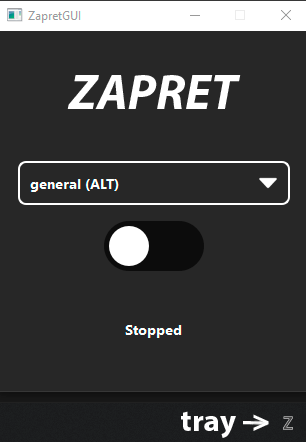
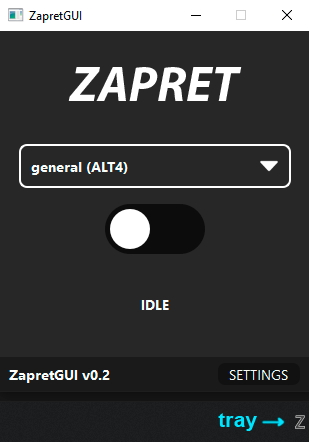
bump version

diff --git a/core/globals.py b/core/globals.py
@@ -3,7 +3,7 @@ import os
 import atexit
 from core.settings import Settings
 
-VERSION = "0.1b"
+VERSION = "0.2"
 APPDIR = os.path.join(os.environ['APPDATA'],"zapret_gui")
 settings: Settings = None
 
